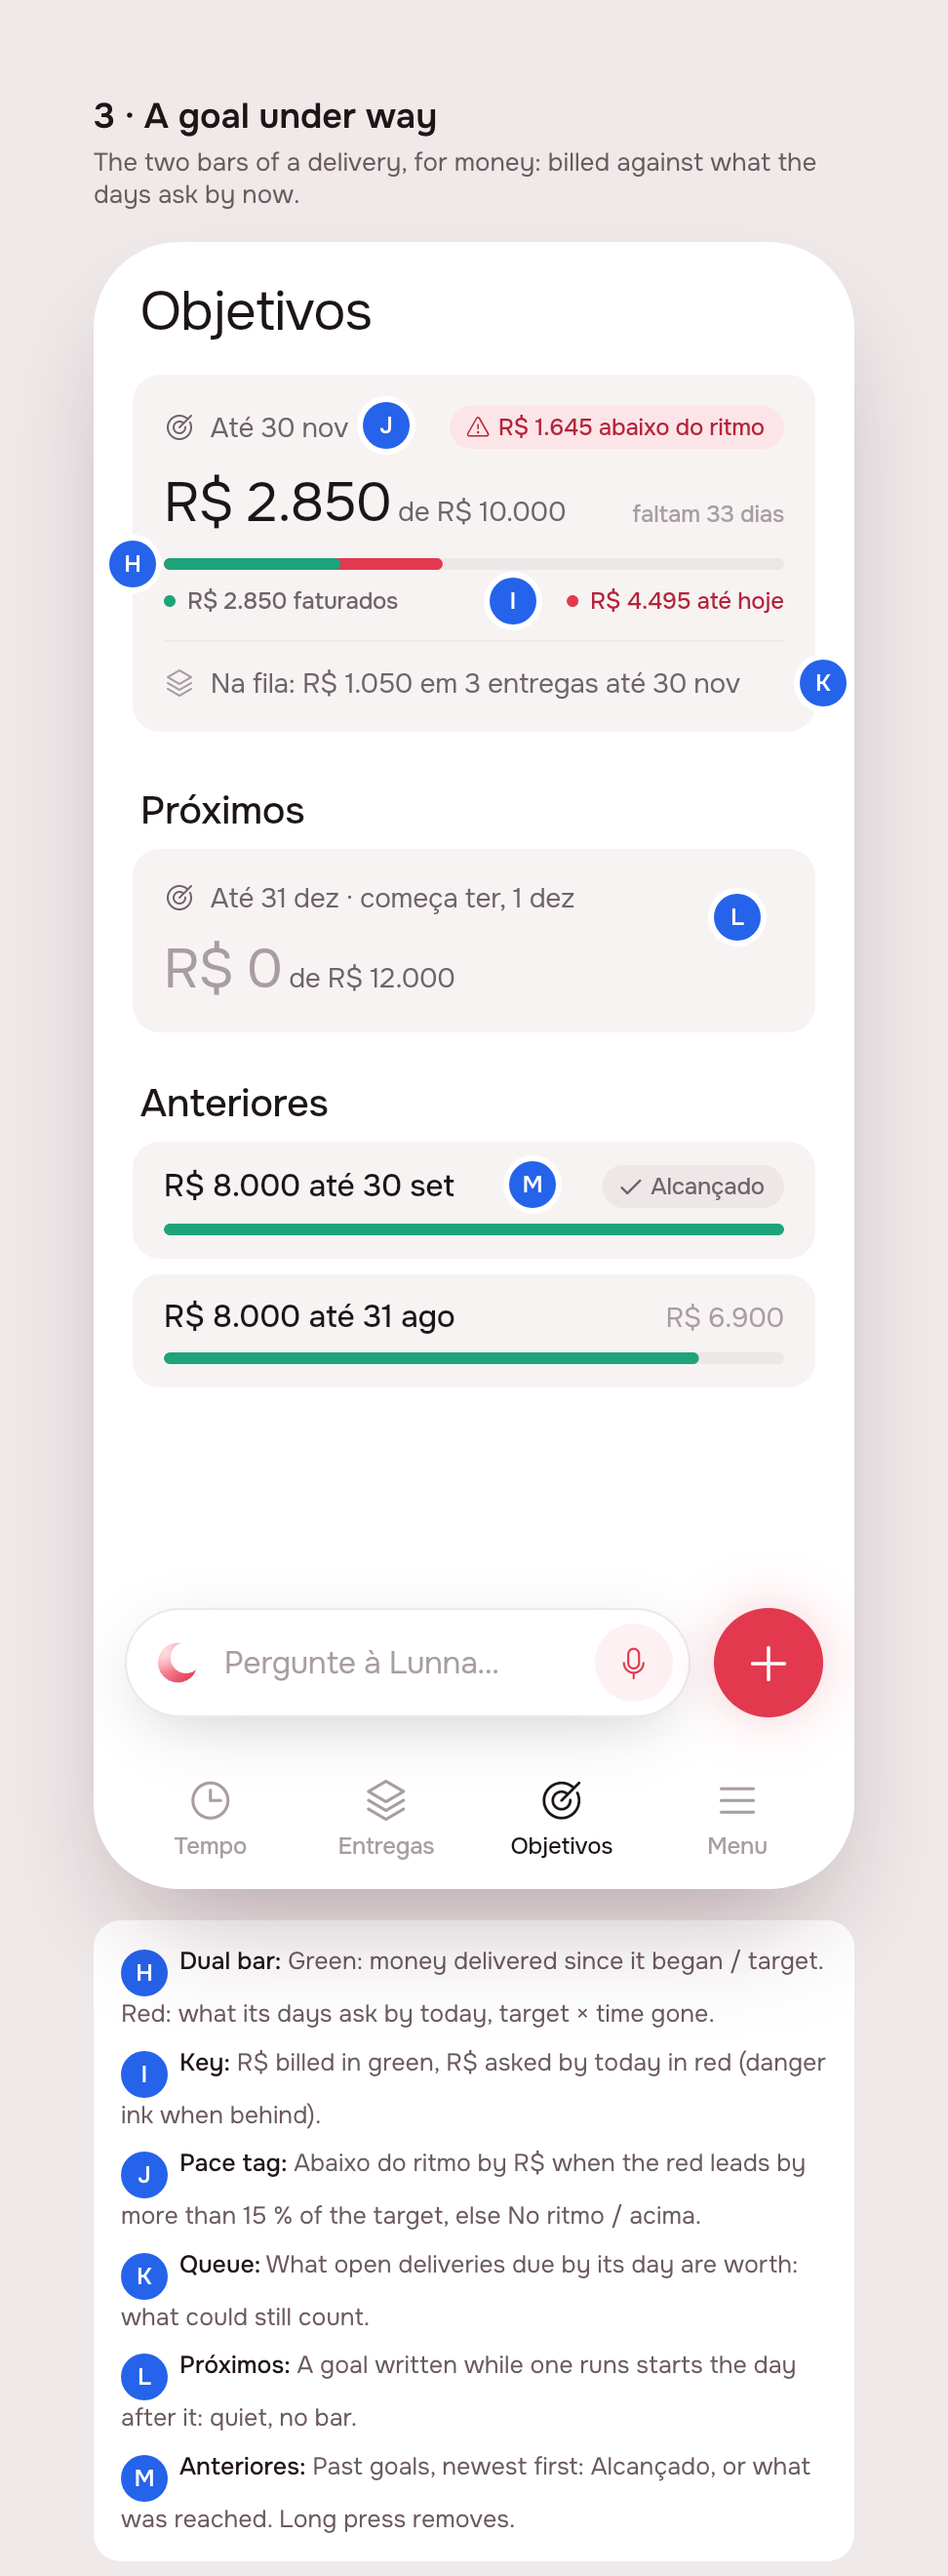
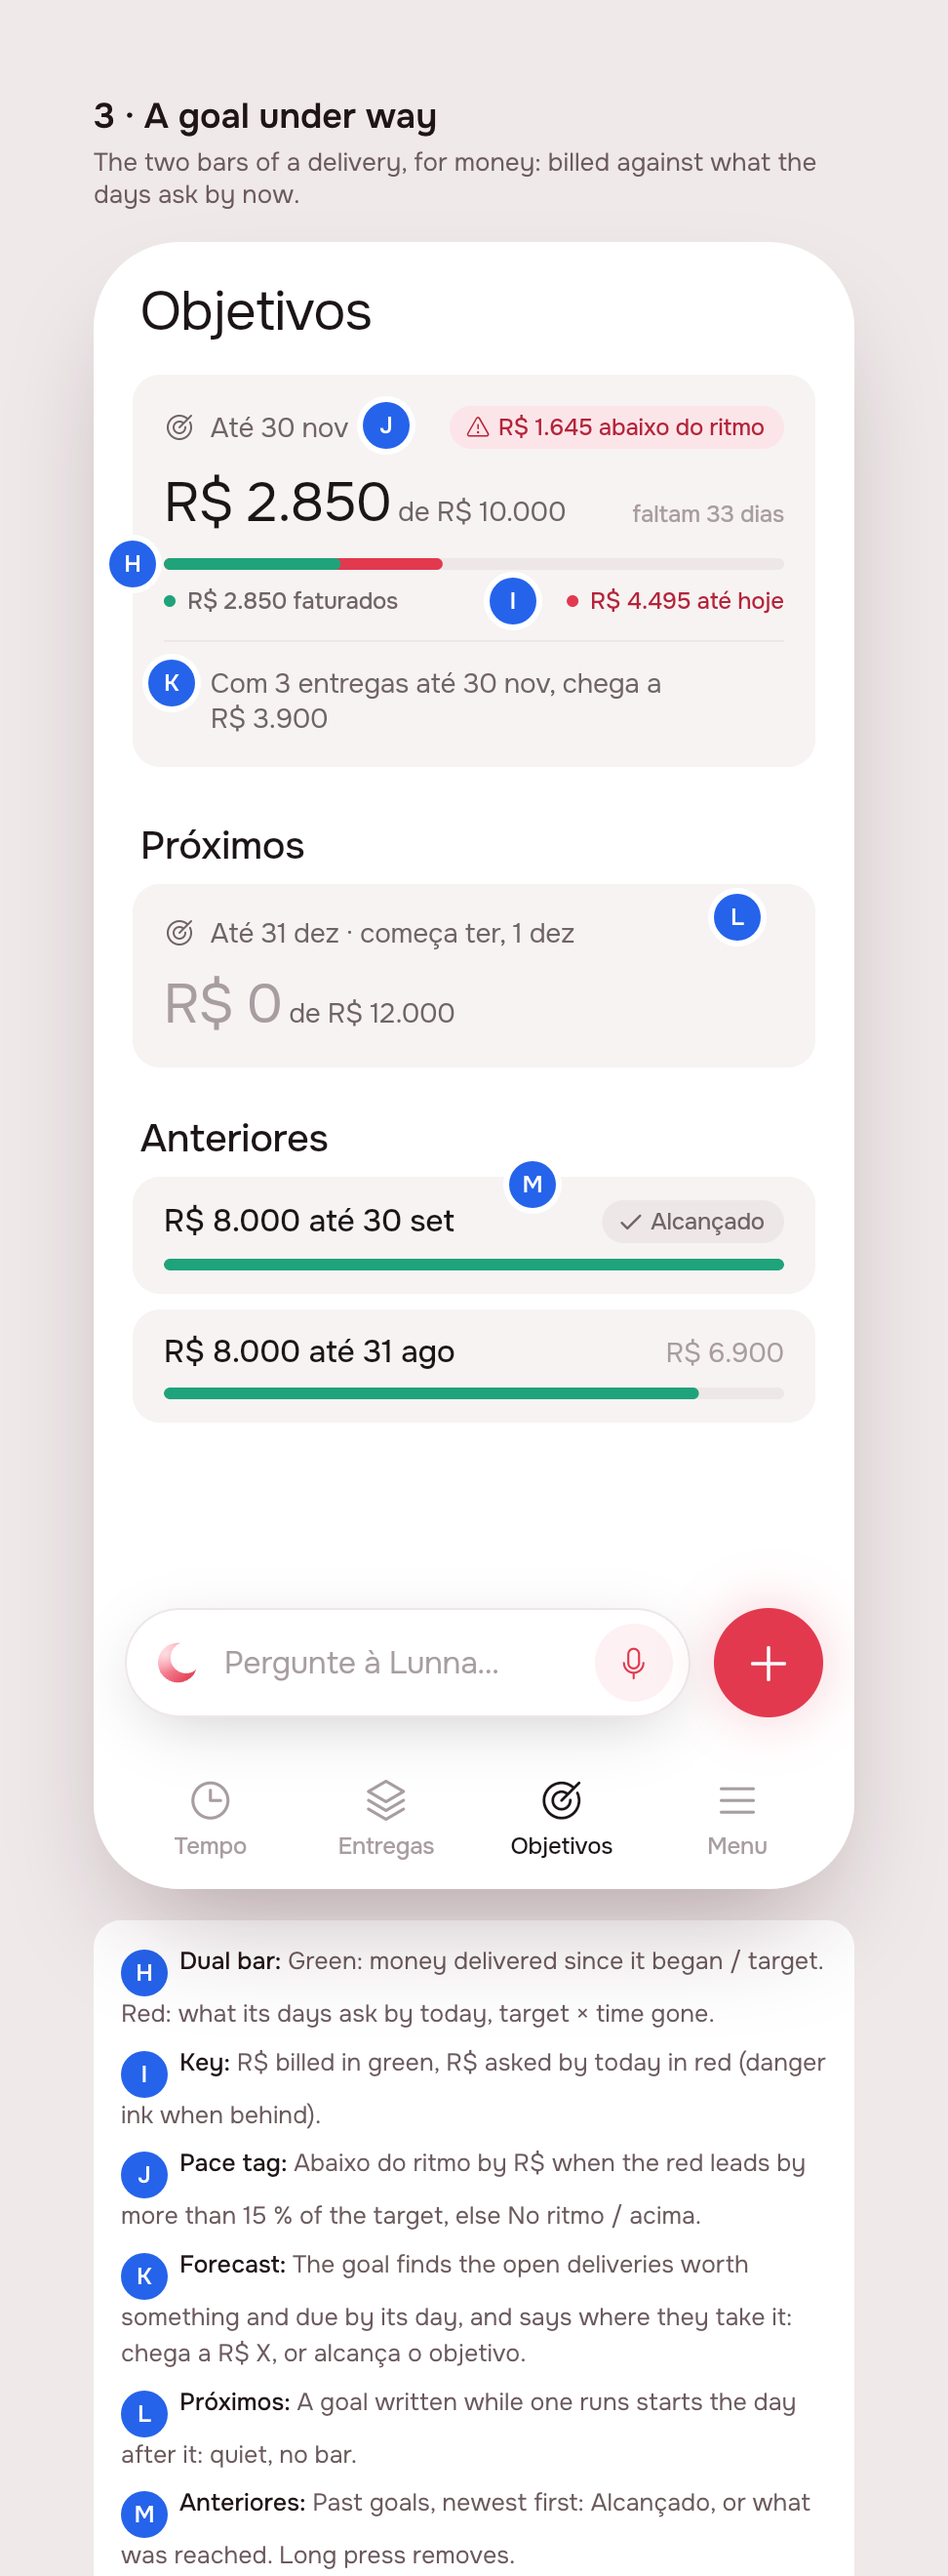
create(#52): revise · Create goals tab (objetivos)

diff --git a/app/packages/artifacts/lib/src/view/artifact_sheet.dart b/app/packages/artifacts/lib/src/view/artifact_sheet.dart
@@ -52,8 +52,8 @@ Future<void> showArtifactSheet(
 /// and how the day may cut it, and leaves only the name and the day to
 /// write. A one-off delivery, with no kind, is the last line of the
 /// catalogue, and is timed and priced by hand. The second step reads it all
-/// back as rows, each one changed in place, and says which goal it will
-/// count towards.
+/// back as rows, each one changed in place. It names no goal: a goal finds
+/// the deliveries that count towards it by itself.
 /// {@endtemplate}
 class ArtifactSheet extends StatefulWidget {
   /// {@macro artifact_sheet}
@@ -210,7 +210,7 @@ class _ArtifactSheetState extends State<ArtifactSheet> {
       tall: picking,
       child: picking
           ? _catalog(l10n, state.catalog)
-          : _details(l10n, state.goals),
+          : _details(l10n),
     );
   }
 
@@ -320,13 +320,11 @@ class _ArtifactSheetState extends State<ArtifactSheet> {
     );
   }
 
-  Widget _details(AppLocalizations l10n, List<Goal> goals) {
+  Widget _details(AppLocalizations l10n) {
     final now = clock.now();
     final type = _type;
     final deadline = _deadline;
     final block = type?.blockMinutes ?? _defaultBlock;
-    final price = _typedValue;
-    final goal = _goalFor(goals, type, price, deadline ?? now);
 
     return Column(
       mainAxisSize: MainAxisSize.min,
@@ -422,12 +420,6 @@ class _ArtifactSheetState extends State<ArtifactSheet> {
                   : dayName(l10n, deadline, now),
               onTap: () => unawaited(_pickDeadline()),
             ),
-            if (goal != null)
-              SheetRow(
-                iconData: AppIcons.goal,
-                label: l10n.artifactCountsFor,
-                value: goalLabel(l10n, goal),
-              ),
           ],
         ),
         // Begun at once, it is placed by how late it is, not in the queue.
@@ -459,27 +451,6 @@ class _ArtifactSheetState extends State<ArtifactSheet> {
         ),
       ],
     );
-  }
-
-  /// The goal a delivery due on [day] counts towards: the money goal of
-  /// that stretch when it is worth something, or the count goal of its kind.
-  Goal? _goalFor(
-    List<Goal> goals,
-    CatalogType? type,
-    int? value,
-    DateTime day,
-  ) {
-    for (final goal in goals) {
-      final inStretch = !day.isBefore(goal.start) && day.isBefore(goal.end);
-      if (!inStretch) continue;
-      if (goal.kind == GoalKind.money && (value ?? 0) > 0) return goal;
-      if (goal.kind == GoalKind.count &&
-          type != null &&
-          goal.type?.id == type.id) {
-        return goal;
-      }
-    }
-    return null;
   }
 }
 

diff --git a/app/packages/artifacts/lib/src/view/goal_card.dart b/app/packages/artifacts/lib/src/view/goal_card.dart
@@ -37,9 +37,10 @@ GoalQueue goalQueue(Goal goal, List<Artifact> queue) {
 /// of the target; under it red ([AppColors.paceTime]) is what its days ask
 /// to be in by now, were the target reached evenly. Green covering the red
 /// is on pace; red showing past it is behind, by as much as shows, and a
-/// tag says by how much. Under the bar a line says what the queue still
-/// holds towards it. A goal that has not begun is drawn quiet, with the day
-/// it begins and no bar.
+/// tag says by how much. Under the bar a line says where the open
+/// deliveries due by its day would take it: no delivery names a goal, the
+/// goal finds them by their day and their value ([goalQueue]). A goal
+/// that has not begun is drawn quiet, with the day it begins and no bar.
 /// {@endtemplate}
 class GoalCard extends StatelessWidget {
   /// {@macro goal_card}
@@ -192,6 +193,7 @@ class GoalCard extends StatelessWidget {
               Container(height: 1, color: AppColors.line),
               const SizedBox(height: AppSpacing.s3),
               Row(
+                crossAxisAlignment: CrossAxisAlignment.start,
                 children: [
                   const AppIcon(
                     iconData: AppIcons.artifacts,
@@ -201,12 +203,20 @@ class GoalCard extends StatelessWidget {
                   const SizedBox(width: AppSpacing.s2),
                   Expanded(
                     child: Text(
-                      l10n.goalQueuedLine(
-                        queue.count,
-                        formatMoney(queue.value),
-                        shortDay(l10n, goal.lastDay),
-                      ),
-                      maxLines: 1,
+                      goal.done + queue.value >= goal.target
+                          ? l10n.goalQueuedReaches(
+                              queue.count,
+                              shortDay(l10n, goal.lastDay),
+                            )
+                          : l10n.goalQueuedLine(
+                              queue.count,
+                              // Kept on one line with its R\$.
+                              formatMoney(
+                                goal.done + queue.value,
+                              ).replaceFirst(' ', '\u00a0'),
+                              shortDay(l10n, goal.lastDay),
+                            ),
+                      maxLines: 2,
                       overflow: TextOverflow.ellipsis,
                       style: AppTypography.label,
                     ),

diff --git a/app/packages/l10n/lib/src/gen/app_localizations.dart b/app/packages/l10n/lib/src/gen/app_localizations.dart
@@ -2345,12 +2345,6 @@ abstract class AppLocalizations {
   /// **'Prazo'**
   String get artifactDeadline;
 
-  /// No description provided for @artifactCountsFor.
-  ///
-  /// In pt, this message translates to:
-  /// **'Conta para'**
-  String get artifactCountsFor;
-
   /// No description provided for @artifactPlace.
   ///
   /// In pt, this message translates to:
@@ -2768,8 +2762,14 @@ abstract class AppLocalizations {
   /// No description provided for @goalQueuedLine.
   ///
   /// In pt, this message translates to:
-  /// **'{count, plural, =1{Na fila: {amount} em 1 entrega até {date}} other{Na fila: {amount} em {count} entregas até {date}}}'**
+  /// **'{count, plural, =1{Com 1 entrega até {date}, chega a {amount}} other{Com {count} entregas até {date}, chega a {amount}}}'**
   String goalQueuedLine(int count, String amount, String date);
+
+  /// No description provided for @goalQueuedReaches.
+  ///
+  /// In pt, this message translates to:
+  /// **'{count, plural, =1{Com 1 entrega até {date}, alcança o objetivo} other{Com {count} entregas até {date}, alcança o objetivo}}'**
+  String goalQueuedReaches(int count, String date);
 
   /// No description provided for @goalReached.
   ///

diff --git a/app/packages/l10n/lib/src/gen/app_localizations_pt.dart b/app/packages/l10n/lib/src/gen/app_localizations_pt.dart
@@ -1478,9 +1478,6 @@ class AppLocalizationsPt extends AppLocalizations {
   String get artifactDeadline => 'Prazo';
 
   @override
-  String get artifactCountsFor => 'Conta para';
-
-  @override
   String get artifactPlace => 'Entra na fila';
 
   @override
@@ -1752,8 +1749,19 @@ class AppLocalizationsPt extends AppLocalizations {
     String _temp0 = intl.Intl.pluralLogic(
       count,
       locale: localeName,
-      other: 'Na fila: $amount em $count entregas até $date',
-      one: 'Na fila: $amount em 1 entrega até $date',
+      other: 'Com $count entregas até $date, chega a $amount',
+      one: 'Com 1 entrega até $date, chega a $amount',
+    );
+    return '$_temp0';
+  }
+
+  @override
+  String goalQueuedReaches(int count, String date) {
+    String _temp0 = intl.Intl.pluralLogic(
+      count,
+      locale: localeName,
+      other: 'Com $count entregas até $date, alcança o objetivo',
+      one: 'Com 1 entrega até $date, alcança o objetivo',
     );
     return '$_temp0';
   }

diff --git a/product/delivery/2026-10-28-goals/README.md b/product/delivery/2026-10-28-goals/README.md
@@ -27,6 +27,15 @@ From the issue, verbatim:
 > week" (last day of next month), the user can simply change the date
 > manually if the want.
 
+On the design, reviewed on the issue, the person replied:
+
+> We don't need to associate a delivery to a goal. It is computed
+> automatically, the goal is responsible for being aware of the deliveries
+> and understanding how much will be reached from the deliveries
+
+So the delivery sheet no longer names a goal ("Conta para" is gone), and
+the goal's card now says where the open deliveries take it (pin K).
+
 ## 2. The design
 
 ![The board](img/mockup-board.png)
@@ -45,8 +54,11 @@ the end of next month offered and next month picked. On the tab the running
 goal gets the same two-fill bar as a delivery: green is what was billed
 (deliveries delivered since it began, their `value`), red is what its days ask
 for by today. The goals after it wait under Próximos; the ones gone by are
-listed under Anteriores. For money to count, every delivery now carries an
-editable **Valor**, which a kind's price only fills in.
+listed under Anteriores. Under the bar the goal says **where the open
+deliveries take it**: it finds them by itself (worth something, due by its
+day) and adds them to what is billed. No delivery is tied to a goal. For
+money to count, every delivery now carries an editable **Valor**, which a
+kind's price only fills in.
 
 ### References
 
@@ -74,10 +86,10 @@ this run.
 | H | Dual bar | Green: `done / target`. Red: `timeAt(now)`, the share of calendar time from its start to the end of its last day. `PaceBar` is shared with deliveries. |
 | I | Key | Green "R$ 2.850 faturados", red "R$ 4.495 até hoje" (= target × time gone); the red text uses the danger ink when behind. |
 | J | Pace tag | *R$ X abaixo do ritmo* (danger) when the red leads by more than 15 % of the target (`paceSlack`), otherwise *No ritmo*, or *R$ X acima do ritmo* when ahead. |
-| K | Queue | One line: the value of the open deliveries due by its day, and how many there are. This is what could still count. |
+| K | Forecast | One line, computed by the goal: the open deliveries worth something and due by its last day, added to what is billed. "Com 3 entregas até 30 nov, chega a R$ 3.900", or "…, alcança o objetivo" when they cover the target. |
 | L | Next goals | Under Próximos: no bar, the day it starts. |
 | M | Past goals | Under Anteriores, newest first: *Alcançado*, or the amount reached. A long press removes a goal (any section). |
-| N, O | Money on a delivery | The Valor row in the delivery sheet is always editable, filled in with the kind's price ("do tipo Mapa astral"). *Conta para* names the goal. |
+| N | Money on a delivery | The Valor row in the delivery sheet is always editable, filled in with the kind's price ("do tipo Mapa astral"). The sheet names **no goal**: there is no link between a delivery and a goal (the *Conta para* row of the first round is gone, and so is pin O). |
 | P | Delivery page | Valor gets its own row under Tipo (it was appended to the kind line). With no value it reads "Adicionar valor". |
 
 ### Decided unattended
@@ -100,6 +112,11 @@ this run.
 - **One tab, goals out of Entregas**: `ArtifactsPage(showGoals:)` and its
   goal strip go. The goals stay in `GET /artifacts` and in `ArtifactsCubit`,
   so there is no new repository.
+- **The forecast is the open deliveries due by the goal's last day**,
+  their `value` added to what is billed, with no weighting by how far along
+  they are. A delivery with no deadline, or due after the goal's day, does
+  not count towards it. Each delivery counts once, for the goal whose
+  stretch holds its deadline (goals follow each other, so there is one).
 - **Wording**: *Objetivo* everywhere a person reads it ("Novo objetivo",
   "Criar objetivo"). The code keeps `Goal`.
 
@@ -112,14 +129,16 @@ build; the preview is deleted after Phase 4):
 - `app/packages/artifacts/lib/src/view/goals_page.dart` (new):
   `GoalsPage`, the tab.
 - `.../view/goal_card.dart`: rewritten as `GoalCard` (dual bar, pace tag,
-  queue line), `GoalRow` (past goals), `goalQueue`.
+  the forecast line), `GoalRow` (past goals), `goalQueue` (the goal finding
+  its deliveries).
 - `.../view/goal_sheet.dart`: rewritten as amount + by when, with
   `goalStartAfter` and `goalSuggestions`. **`_save` still calls the old
   `addGoal(period:)`**: the build posts `{ target, deadline }`.
 - `.../view/pace_bars.dart`: `PaceBar` (the bar alone) and `PaceKey` made
   public; `PaceBars` uses them.
 - `.../view/artifact_sheet.dart`: Valor editable for every delivery,
-  filled in with the kind's price, and always sent.
+  filled in with the kind's price, and always sent. The *Conta para* row
+  and `_goalFor` are gone, so the sheet no longer reads the goals.
 - `.../view/artifact_page.dart`: a Valor row of its own. **It has no tap
   yet.**
 - `.../models/models.dart`: `Goal.isOverAt`, `lastDay`, `timeAt`,
@@ -127,7 +146,9 @@ build; the preview is deleted after Phase 4):
 - `.../format.dart`: `shortDay`; `goalLabel` is now "R$ 10.000 até 30 nov".
 - `.../view/view.dart`: exports `goals_page.dart`.
 - `app/lib/shell/view/shell_page.dart`: the 4th tab and the FAB on it.
-- `app/packages/l10n/lib/arb/app_pt.arb` + `gen/`: the new strings.
+- `app/packages/l10n/lib/arb/app_pt.arb` + `gen/`: the new strings
+  (`goalQueuedLine` is the forecast, `goalQueuedReaches` when it covers
+  the target; `artifactCountsFor` removed).
 
 **Server** (`server/src/artifacts/`, read `product/spec/artifacts.md` first):
 
@@ -139,8 +160,9 @@ build; the preview is deleted after Phase 4):
   otherwise today. Refuse, in Portuguese, a deadline that is not after the
   start ("Escolha um dia depois de …") or a target ≤ 0.
 - `GoalView`: `{ id, kind, target, start, end (day after deadline), done,
-  queued }`. `done` is the value delivered in [start, end). `queued` is the
-  value of open deliveries due by the deadline. Past goals are kept and
+  queued, queuedCount }`. `done` is the value delivered in [start, end). `queued` is the
+  value of open deliveries due by the deadline, counted by the goal: no
+  column or route ties a delivery to a goal, and none is added. Past goals are kept and
   measured too (Anteriores needs them).
 - `PATCH /goals/:id { target?, deadline? }` so a goal can be edited (a
   tap on the card opens the sheet filled in). `DELETE` as today.
@@ -151,6 +173,11 @@ build; the preview is deleted after Phase 4):
 - A row in `analytics/events.ts` for the PATCH.
 
 **App:**
+
+- The forecast reads `GoalView.queued` (and its count) from the server
+  rather than `goalQueue` over the cubit's list, so the app and the agent
+  say the same number; drop `goalQueue` then, or keep it for the landing's
+  fakes.
 
 - `ArtifactsRepository.addGoal({ target, deadline })` and
   `updateGoal`; `update(id, value:)`; the cubit's `addGoal`, `editGoal`
@@ -167,11 +194,15 @@ build; the preview is deleted after Phase 4):
 - Tests: `artifacts_page_test.dart` opens `showGoalSheet(kind: count)`,
   which no longer exists. Replace it with goals-page tests: the empty state,
   the suggestions on a fixed clock (Wed 28 Oct → dom 8 nov / seg 30 nov),
-  the start after a running goal, the pace tag at the 15 % edge, and a
-  delivery's value from its kind. Run under several `TZ`s.
+  the start after a running goal, the pace tag at the 15 % edge, the forecast ("chega a" and
+  "alcança o objetivo", a delivery due after the goal's day left out), and
+  a delivery's value from its kind with no goal row in its sheet. Run under several `TZ`s.
 - Spec: rewrite "Goal" and the goal rules in `product/spec/artifacts.md`
   (or a new `product/spec/goals.md`), and add the fourth tab to AGENTS.md's
   shell paragraph.
+
+**Settled on the issue:** a delivery is never associated with a goal; the
+goal computes what counts and what the queue will bring.
 
 **Open questions** (also on the issue):
 
